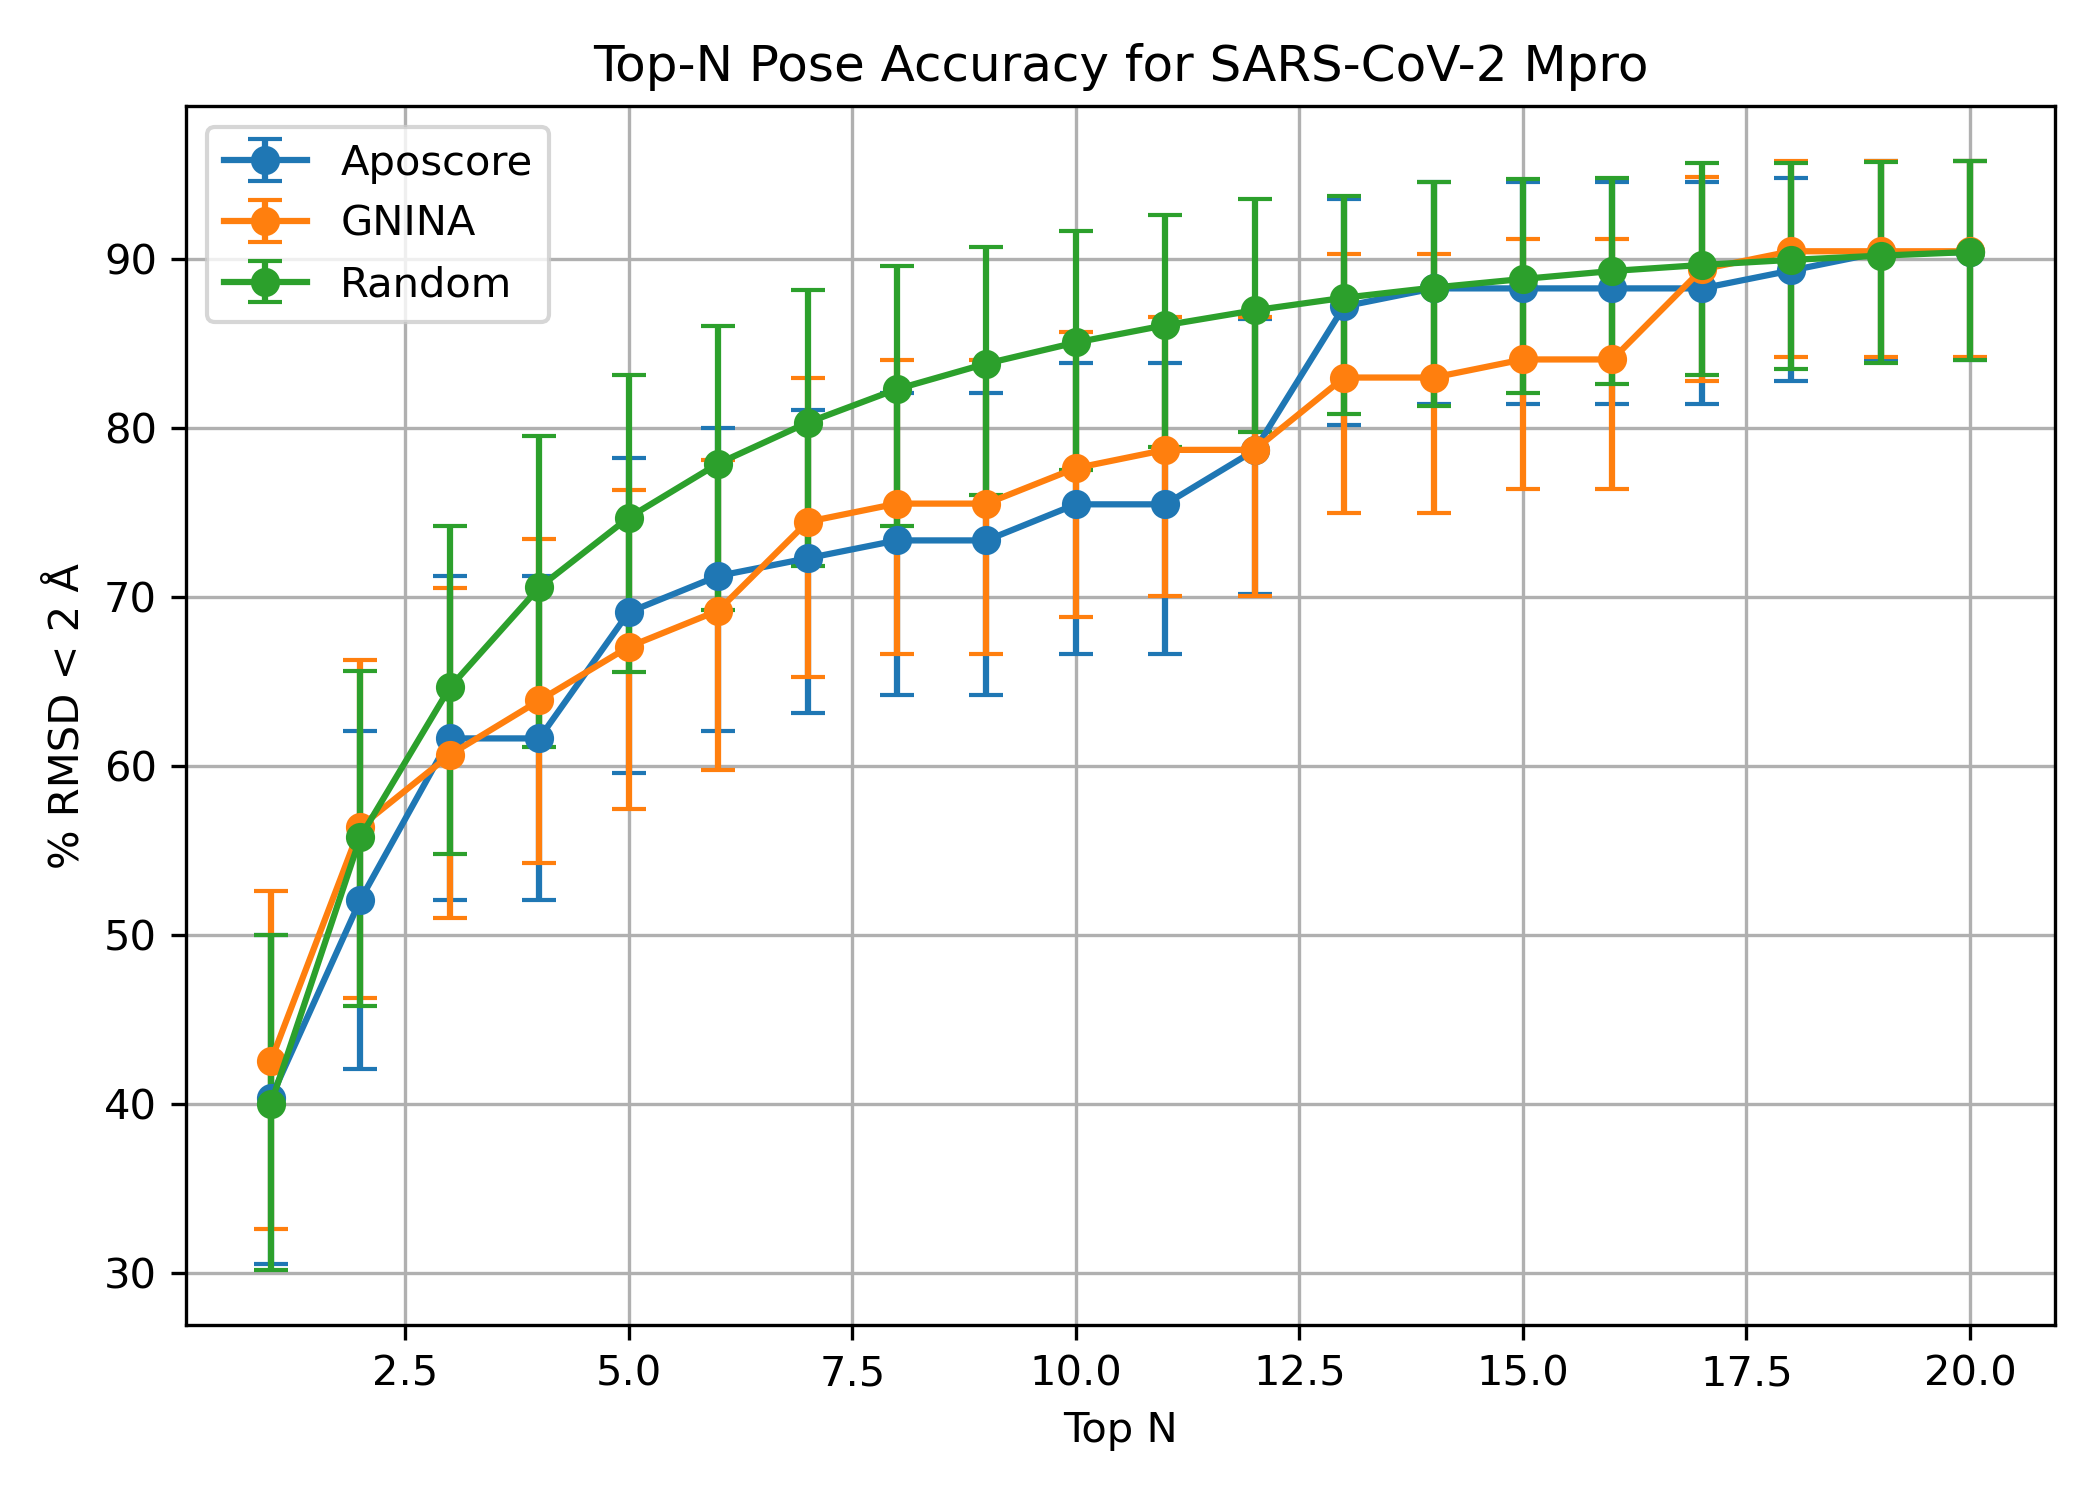
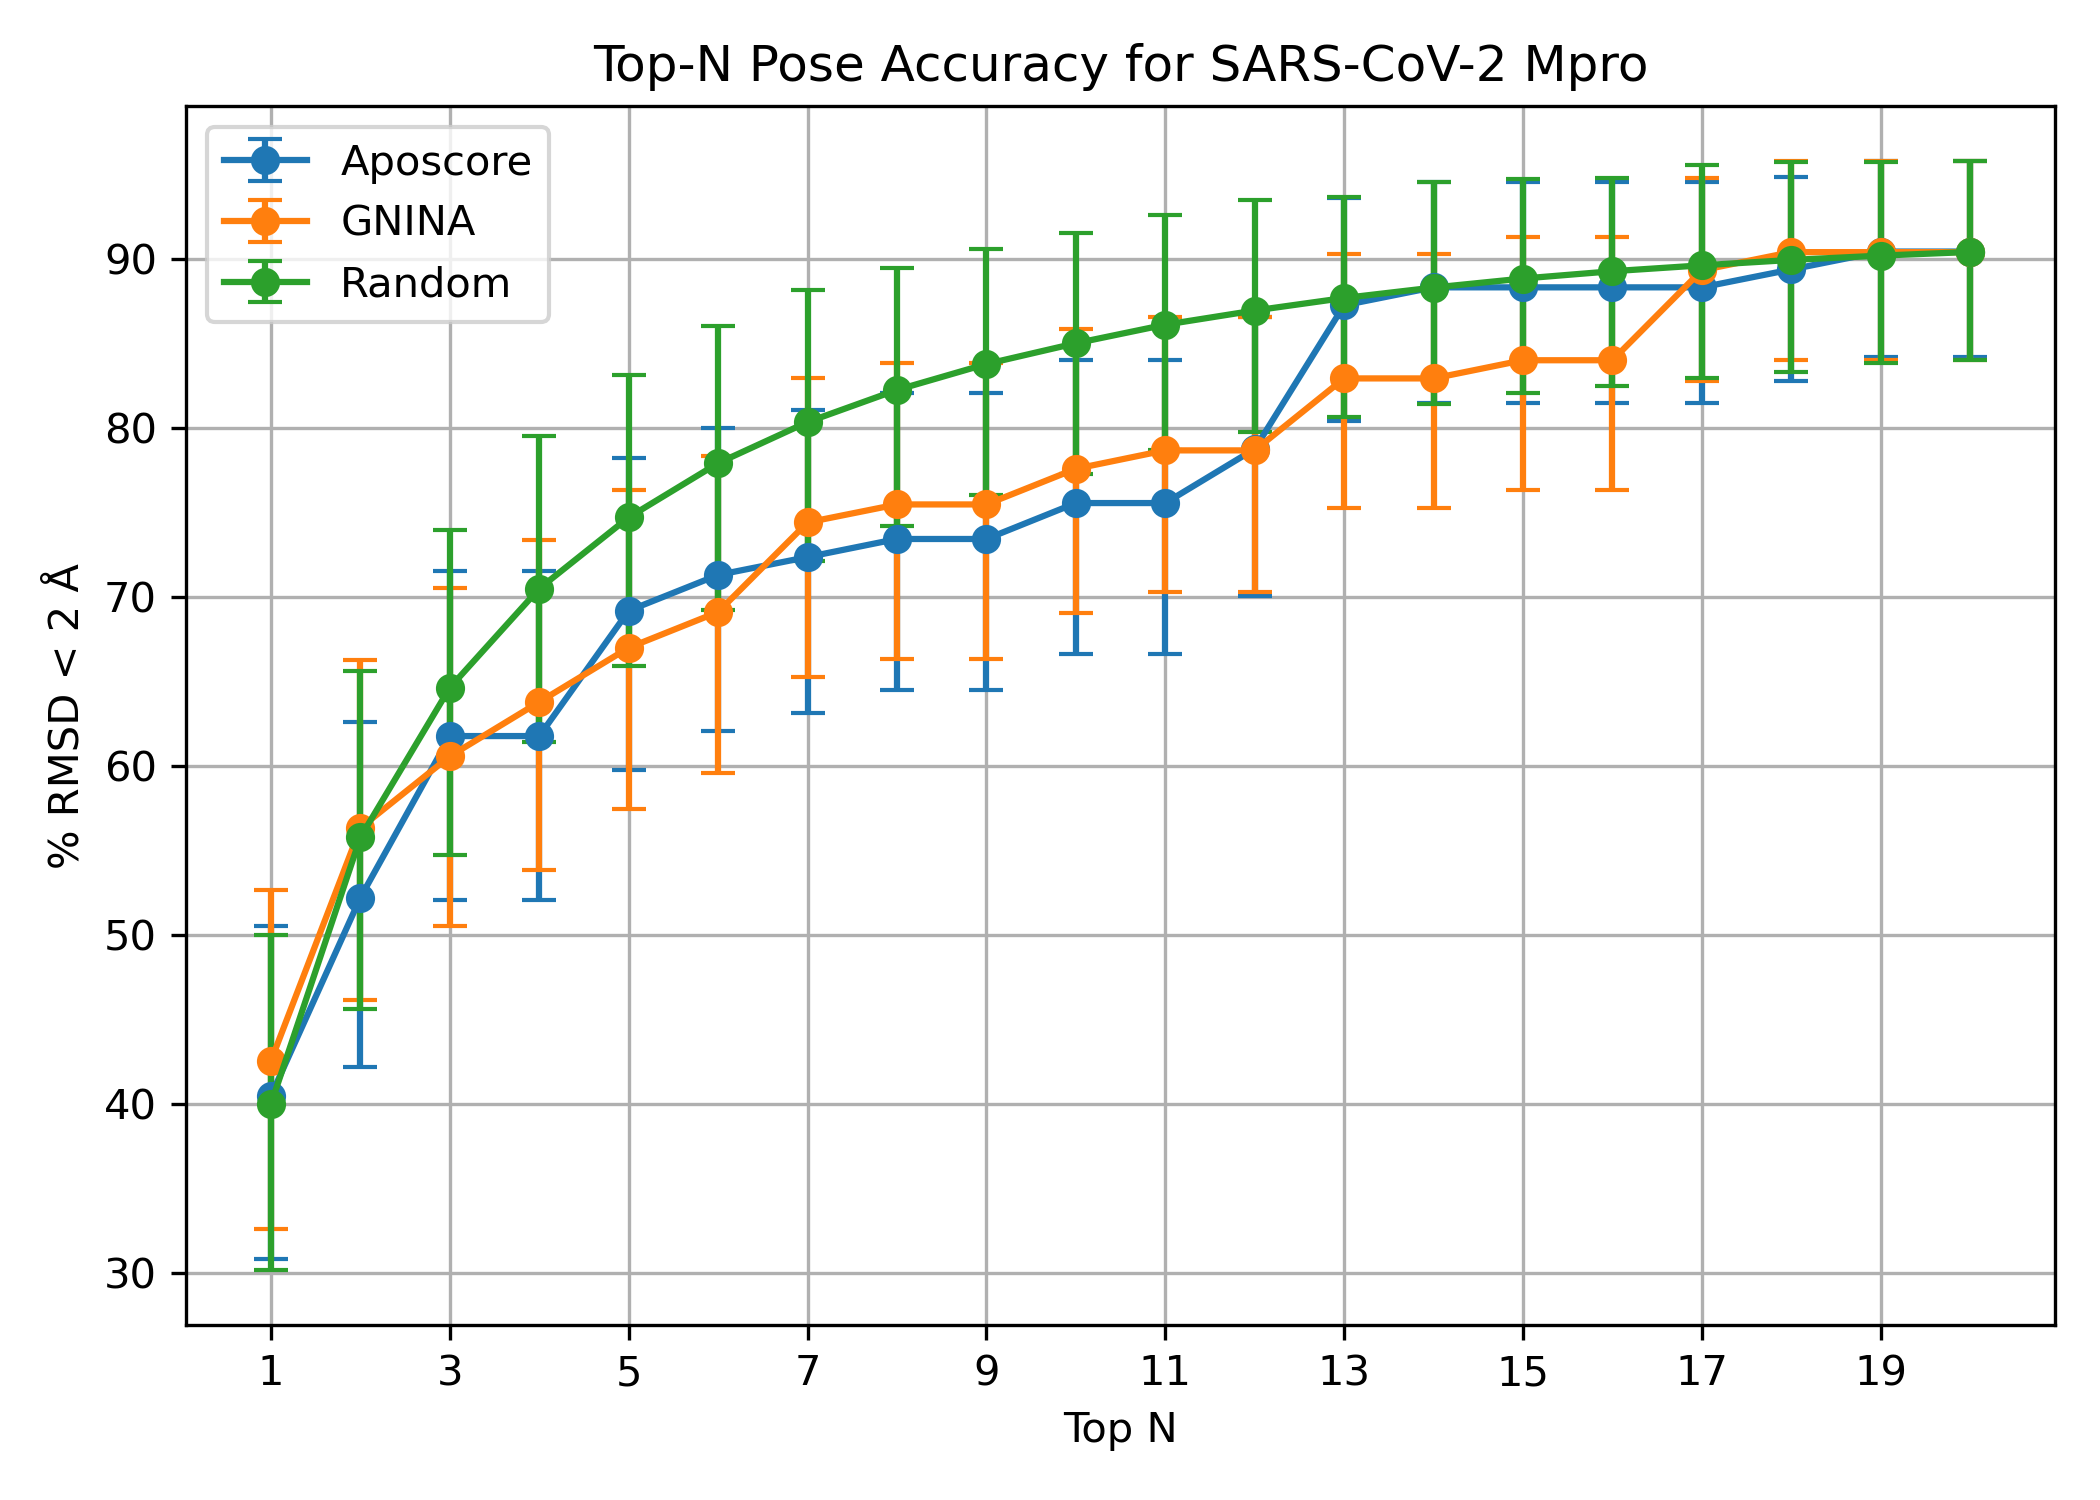
bootsptrapping plots x-axis updated

diff --git a/SARS-full-size/bootstrapping.py b/SARS-full-size/bootstrapping.py
@@ -250,6 +250,7 @@ def run_all():
     plt.title("Top-N Pose Accuracy for SARS-CoV-2 Mpro")
     plt.legend()
     plt.grid(True)
+    plt.xticks(np.arange(1, len(N)+1, 2)) # x axis ticks
     plt.tight_layout()
     plt.savefig("combined_bootstrap_plot.png", dpi=300)
     plt.show()

diff --git a/mers-full-size/bootstrapping.py b/mers-full-size/bootstrapping.py
@@ -250,6 +250,7 @@ def run_all():
     plt.title("Top-N Pose Accuracy for MERS-CoV Mpro") 
     plt.legend()
     plt.grid(True)
+    plt.xticks(np.arange(1, len(N)+1, 2))
     plt.tight_layout()
     plt.savefig("combined_bootstrap_plot.png", dpi=300)
     plt.show()
